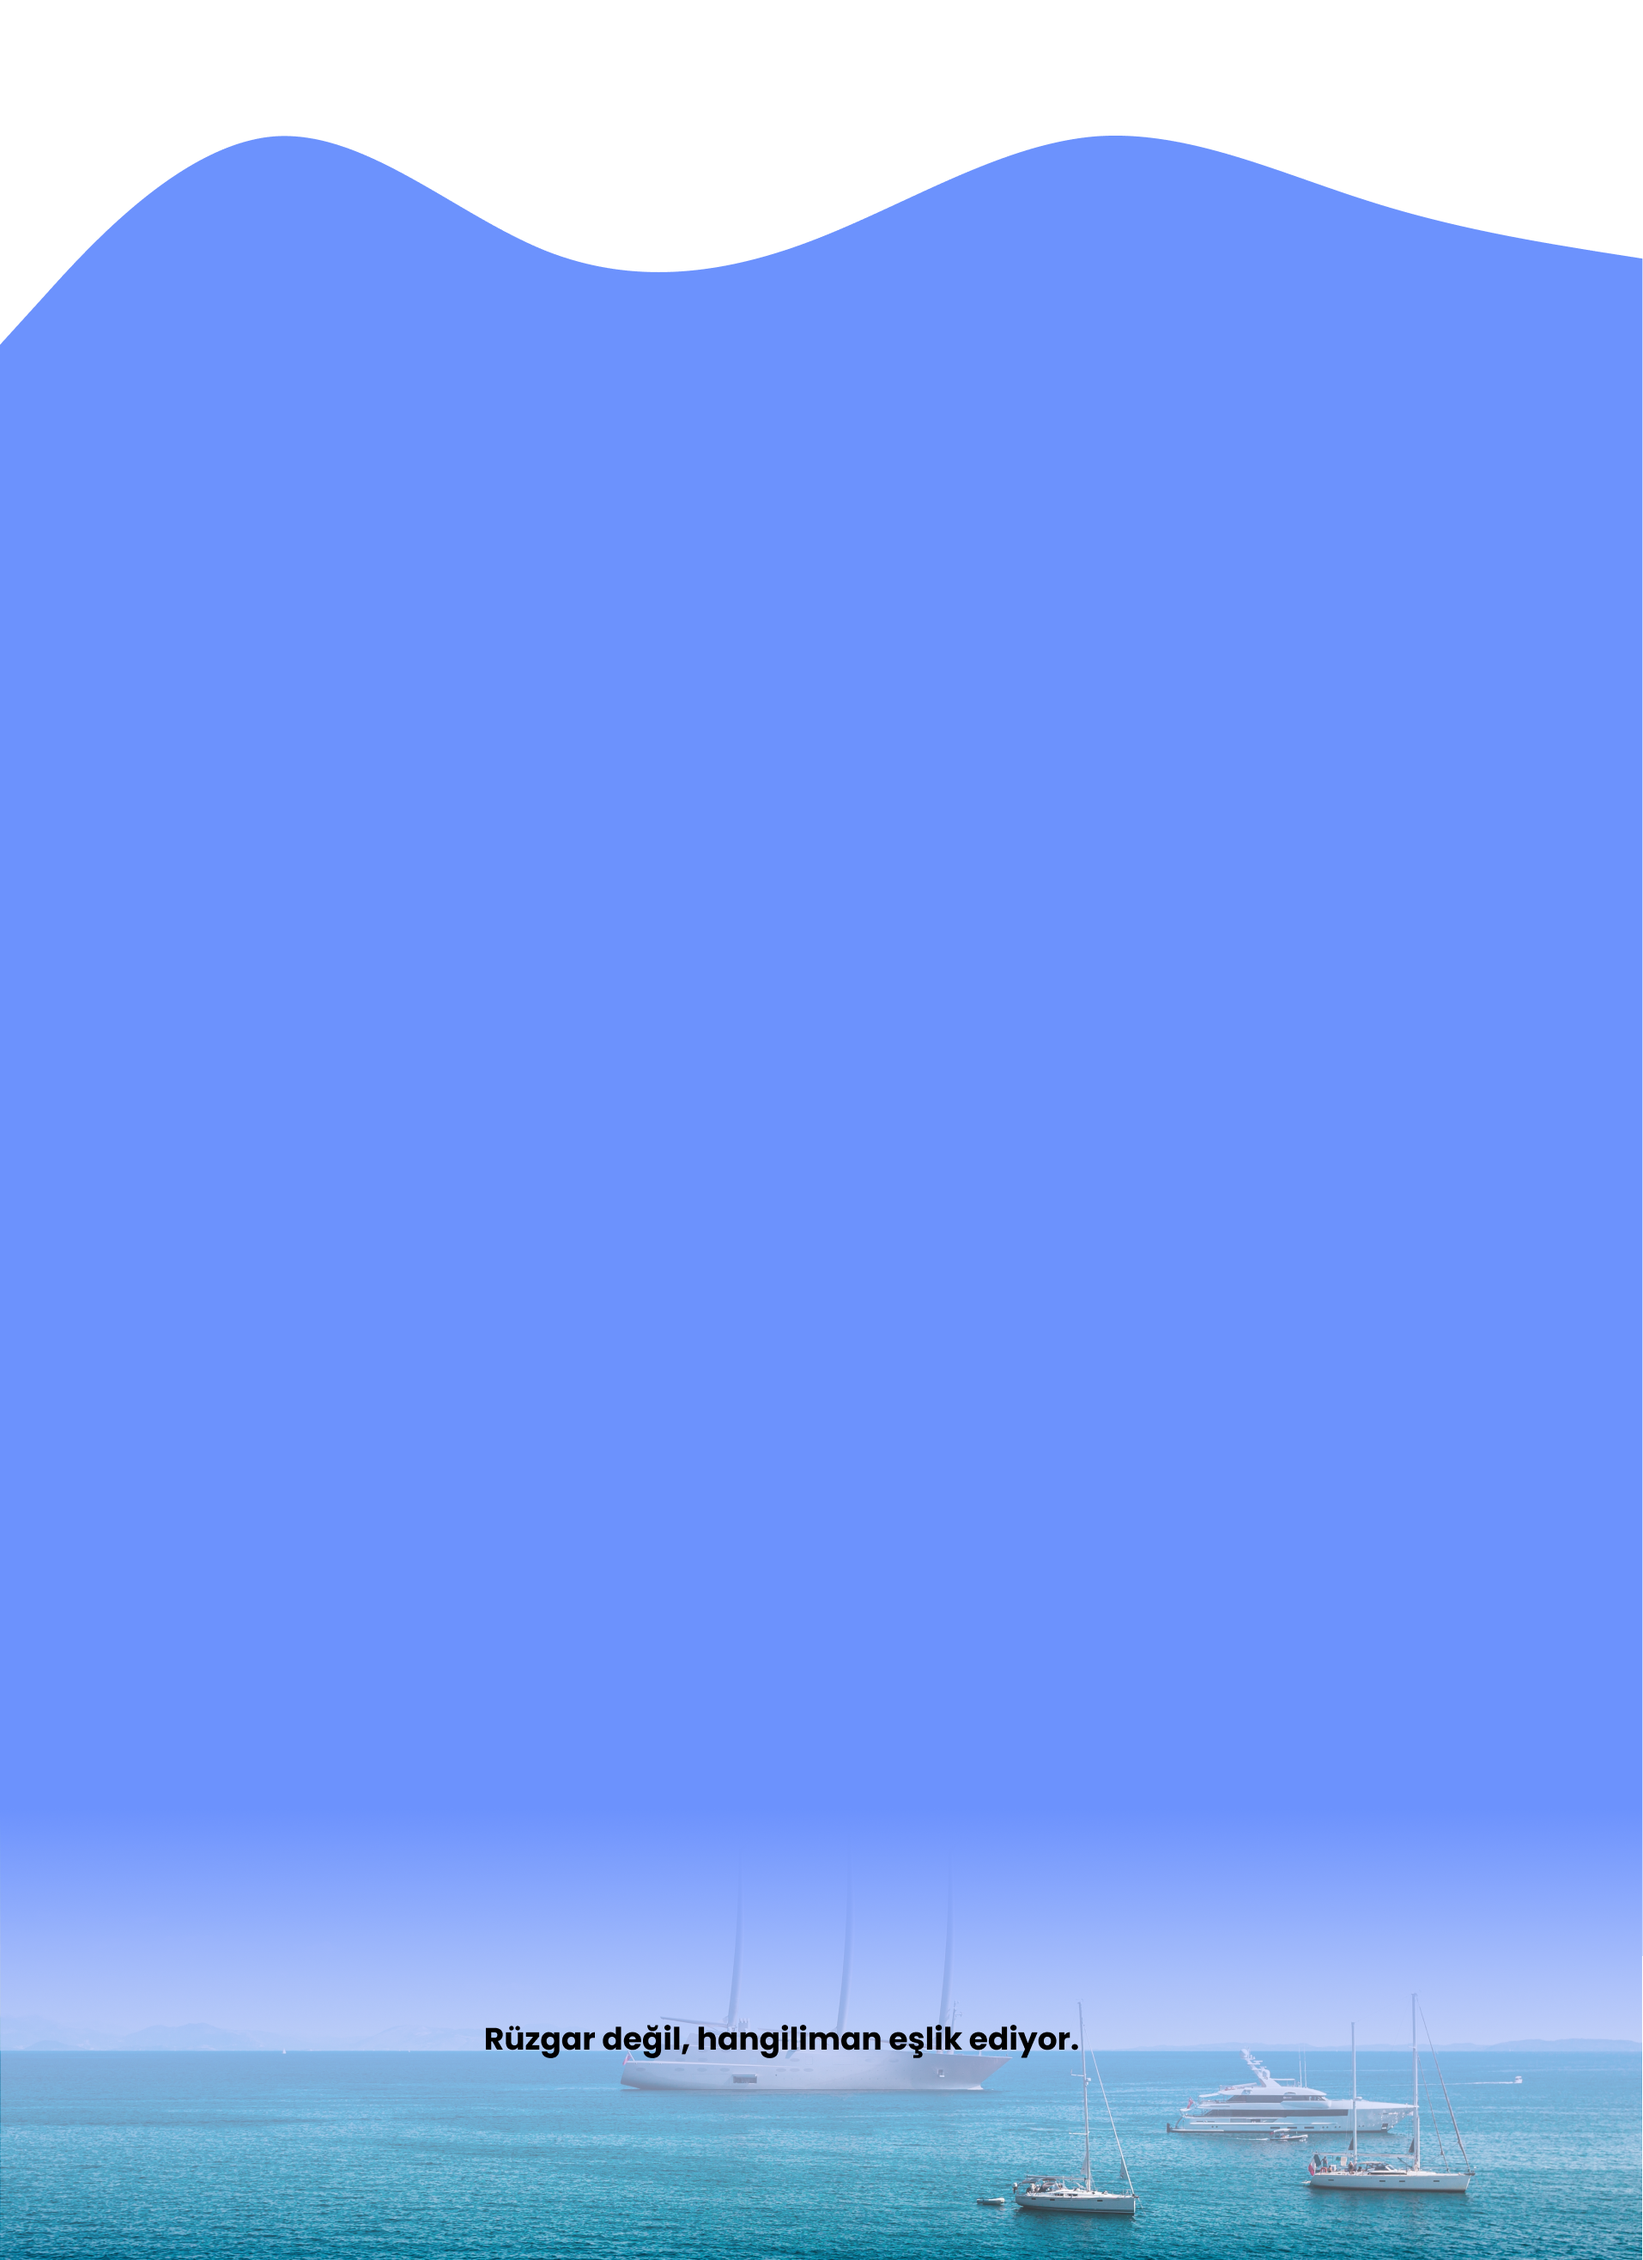
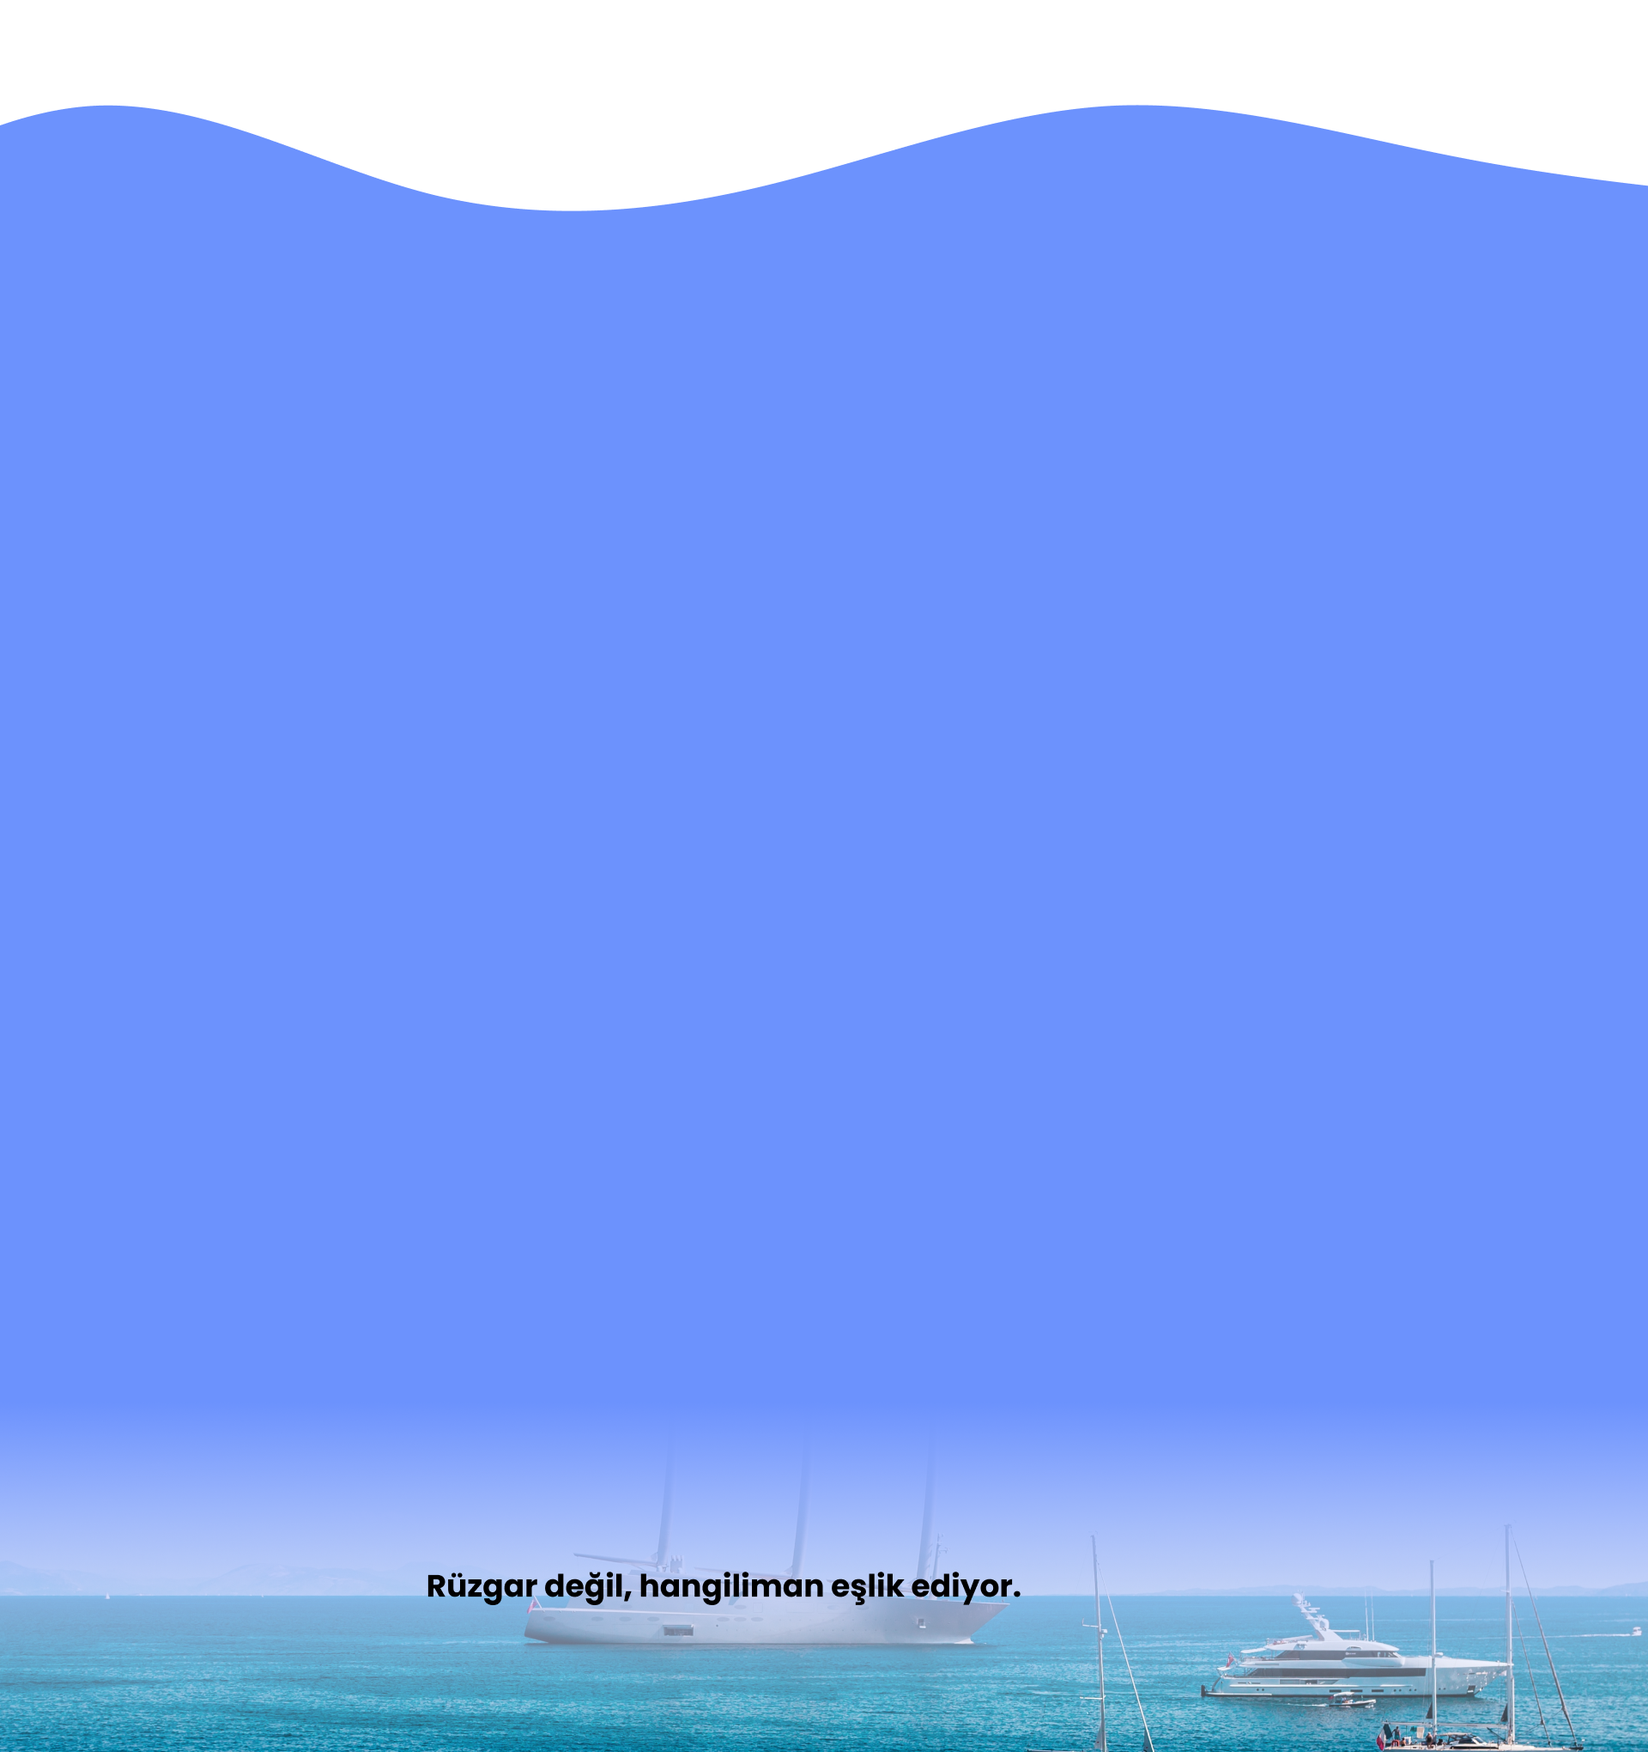
part3 background changed

diff --git a/src/App.css b/src/App.css
@@ -240,7 +240,7 @@ header {
   display: flex;
   justify-content: center;
   align-items: center;
-  margin-top: 35rem;
+  margin-top: 45rem;
   z-index: 2;
 }
 
